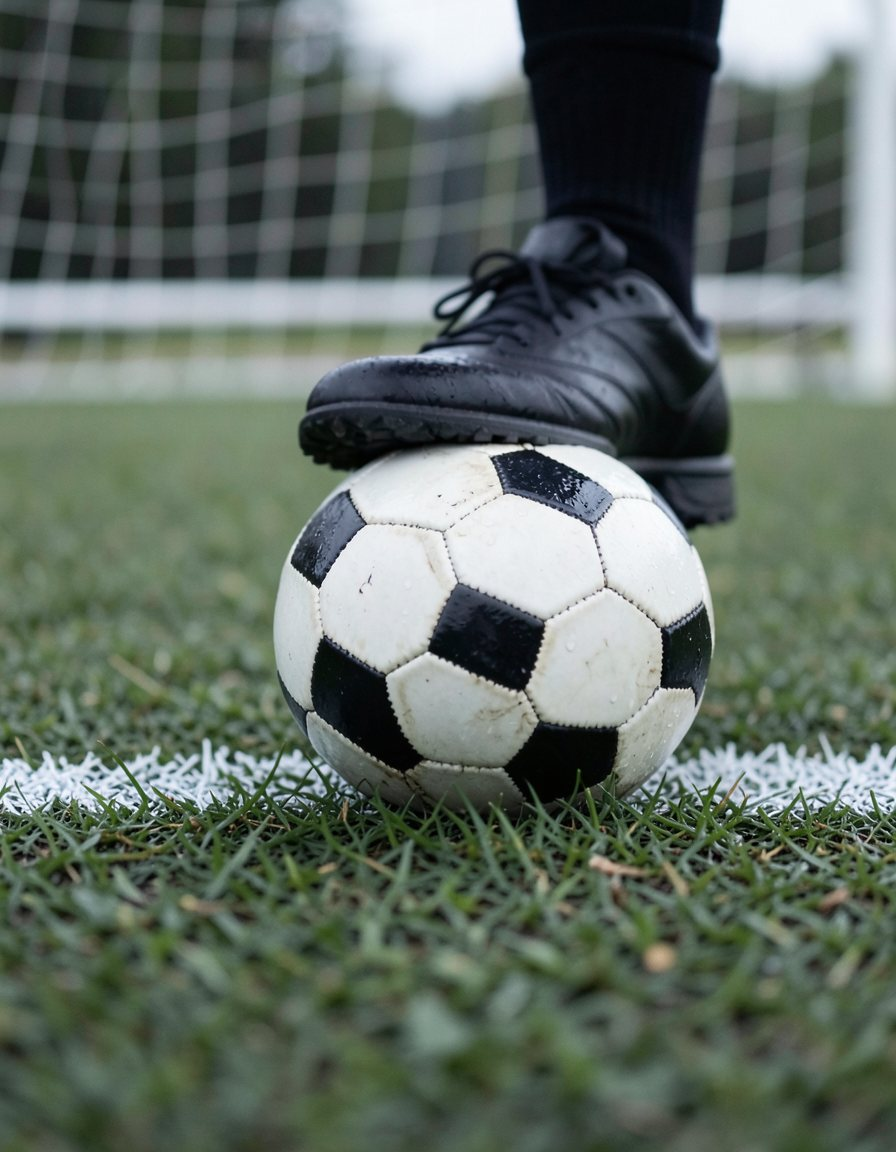
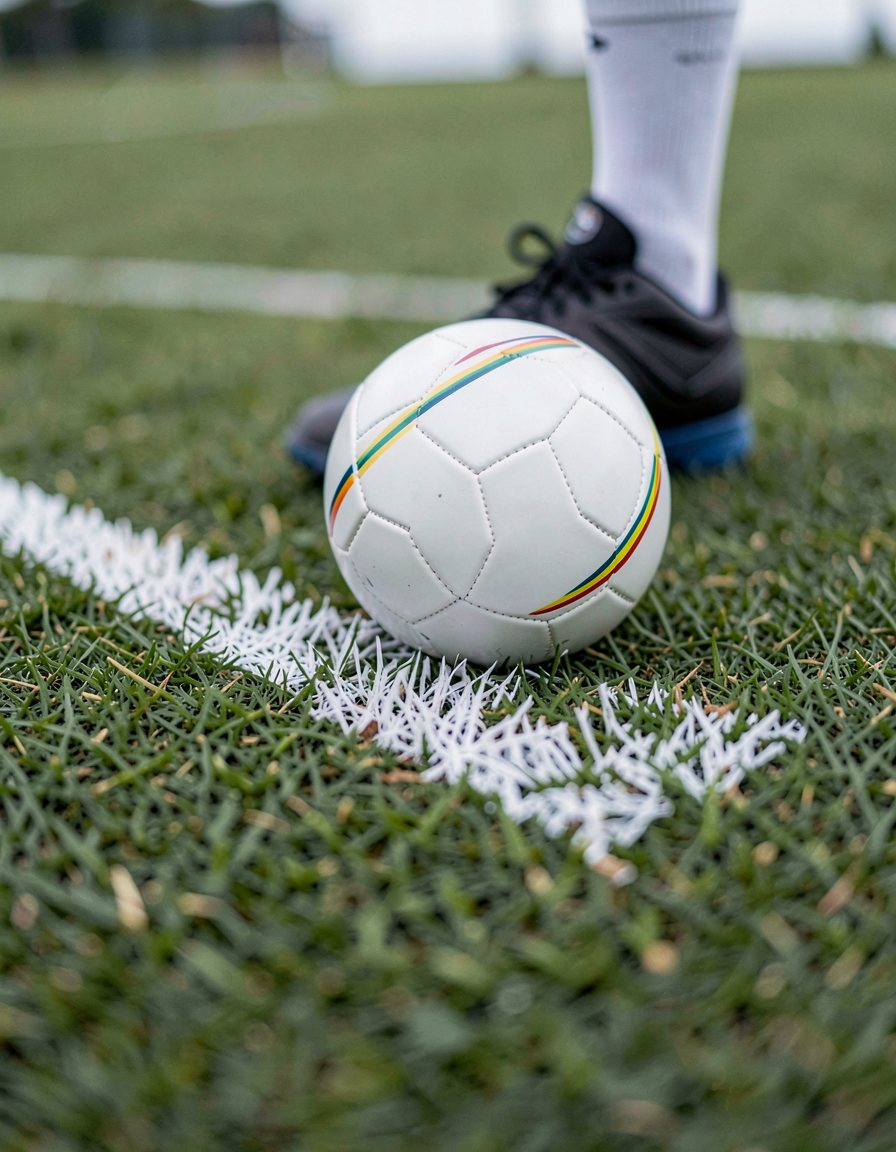
The pitch stopped flickering, and it was the caption that moved it
Three reports, all three real.

THE FLICKER, and I caused it. `.stage-pitch` was inset with
`bottom: var(--deck-floor)` to keep the goalkeeper out from under the caption.
That value is built on the LIVE caption height, the caption is one to three
lines, and so the host changed height every time the line count did -- measured
at 479 px and 534 px inside one scene. Two faults fell out of one line: the
whole diagram jumped half a centimetre mid-sentence, and every jump re-sized the
canvas, which CLEARS it, with the redraw deferred to the next animation frame.
A blank frame is what a flicker is.

The host is full-bleed again and the clearance moved into the FIT, measured off
the caption element and kept as a high-water mark so it settles once and then
never moves. Same lesson --caption-reach already taught this repo: measure the
element, never sum the parts. And resize() now draws synchronously, which rule 2
always allowed and this is the call that needed it.

Measured before: heights 479 and 534, canvas re-sized twice in 16 s.
Measured after: height 700 throughout, canvas re-sized 0 times, 0 blank samples
in 180.

THE PICTURES. The boot-and-ball and the gloves read as old and cheap, and they
were: a 1970s black-hexagon ball on scruffy artificial turf, and gloves lying on
ASPHALT with a painted line across it, which reads as a car park rather than a
pitch. Re-prompted -- modern bonded panels and not stitched hexagons, real mown
[…]

diff --git a/pitch/index.js b/pitch/index.js
@@ -190,7 +190,34 @@ export function createPitch(host, opts = {}) {
     canvas.height = Math.round(size.h * dpr);
     canvas.style.width = `${size.w}px`;
     canvas.style.height = `${size.h}px`;
-    schedule();
+    // SYNCHRONOUSLY, not scheduled. Assigning canvas.width clears the canvas,
+    // so deferring the redraw to the next animation frame leaves one blank
+    // frame on screen — which is exactly what a flicker is. Rule 2 says a draw
+    // must be callable synchronously; this is the call that needs it.
+    draw();
+  }
+
+  /* How much of the bottom the caption needs, as a HIGH-WATER MARK.
+     
+     Measured off the caption element rather than summed from --floor and
+     --caption-h, for the reason --caption-reach exists: a sum of parts is wrong
+     the moment a part moves. And kept as a maximum rather than read live,
+     because the caption is one to three lines and a pitch that re-fits itself
+     every time the line count changes is a pitch that jumps mid-sentence.
+     It settles on the first three-line caption and then never moves again. */
+  let floorMark = 0;
+  function floorReserve() {
+    const cap = document.querySelector('.captions');
+    if (cap) {
+      const c = cap.getBoundingClientRect();
+      const h = host.getBoundingClientRect();
+      if (c.height > 0 && c.top > h.top) {
+        floorMark = Math.max(floorMark, Math.round(h.bottom - c.top) + 8);
+      }
+    }
+    // Never eat more than half the stage: a caption that tall is a different
+    // problem and hiding the pitch behind it does not help anybody.
+    return Math.min(floorMark, size.h * 0.5);
   }
 
   /**
@@ -201,15 +228,16 @@ export function createPitch(host, opts = {}) {
    */
   function boxes() {
     const gap = panels.length > 1 ? 10 : 0;
-    const stack = size.h >= size.w;
+    const usable = Math.max(80, size.h - floorReserve());
+    const stack = usable >= size.w;
     const out = [];
     for (let i = 0; i < panels.length; i += 1) {
       if (stack) {
-        const h = (size.h - gap * (panels.length - 1)) / panels.length;
+        const h = (usable - gap * (panels.length - 1)) / panels.length;
         out.push({ x: 0, y: i * (h + gap), w: size.w, h });
       } else {
         const w = (size.w - gap * (panels.length - 1)) / panels.length;
-        out.push({ x: i * (w + gap), y: 0, w, h: size.h });
+        out.push({ x: i * (w + gap), y: 0, w, h: usable });
       }
     }
     return out;
@@ -638,6 +666,20 @@ export function createPitch(host, opts = {}) {
       // A ring in the ground colour lifts a dot off a zone wash it is standing
       // in. Without it, a marker inside a shaded pressing trap loses its edge
       // and the two read as one blob.
+      /* A halo on whatever the sentence is about.
+         
+         Dimming the other twenty-one was not enough on its own: it made the
+         subject relatively brighter, which is a weaker signal than making it
+         absolutely louder, and it was reported as the indications not being
+         clear enough. A ring outside the dot in the line colour reads at phone
+         size against turf whatever the faction colour is. */
+      if (panel.focus && lit(panel, side, p)) {
+        ctx.beginPath();
+        ctx.arc(x, y, r + 4.5, 0, Math.PI * 2);
+        ctx.strokeStyle = token('--pitch-line', 'rgba(255,255,255,.78)');
+        ctx.lineWidth = 2.4;
+        ctx.stroke();
+      }
       ctx.beginPath();
       ctx.arc(x, y, r, 0, Math.PI * 2);
       ctx.fillStyle = p.dim ? mixHex(colour, token('--pitch-turf', '#4a7c3c'), 0.55) : colour;
@@ -993,7 +1035,7 @@ export function createPitch(host, opts = {}) {
   }
 
   /** How far back an unlit thing goes. Not zero: it is still the picture. */
-  const FOCUS_DIM = 0.3;
+  const FOCUS_DIM = 0.22;
 
   /** Is this player the one being talked about? */
   function lit(panel, side, player) {

diff --git a/css/pitch.css b/css/pitch.css
@@ -68,28 +68,26 @@
   --pitch-line-soft: rgba(255, 255, 255, .24);
 }
 
-/* The ground — but NOT full-bleed like .stage-map, and that is the one
-   interesting rule in this file.
+/* The ground, full-bleed like .stage-map — and it must NOT be inset to clear
+   the caption, which is what it was.
 
-   A map has a camera, so it fills the stage and `framePadding()` composes the
-   subject into the part you can actually see. A pitch has no camera: it is
-   fitted once into whatever box it is given. Given the whole stage, it fits
-   105 metres into 700 pixels and puts the goalkeeper — and the whole bottom
-   penalty area — underneath the caption. Measured on chapter one at 390x700:
-   the number 1 was invisible in every scene, in a chapter whose subject is
-   eleven players.
+   `bottom: var(--deck-floor)` looked right and was measurably wrong. That value
+   is built on the live caption height, the caption is one to three lines, and
+   so the host changed height by 55 px every time the line count changed —
+   measured at 479 px and 534 px inside one scene. Two faults came out of it:
+   the whole diagram jumped half a centimetre mid-sentence, and every jump
+   resized the canvas, which CLEARS it, with the redraw deferred to the next
+   animation frame. Reported as "the pitch graphics are flickering".
 
-   So the host stops above the caption, and the ResizeObserver in
-   pitch/index.js re-fits when it moves. `--deck-floor` is the same clearance
-   .stage-chart uses, and it is built on the MEASURED --caption-reach rather
-   than on --floor + --caption-h, because a sum of parts is wrong the moment a
-   part moves — this repo has paid for that twice already. */
+   The clearance still has to happen — the goalkeeper was under the caption
+   before it — but it belongs to the FIT and not to the element. pitch/index.js
+   measures the caption's own top edge and keeps the high-water mark, so the
+   pitch settles once and then never moves. Measuring off the element rather
+   than summing --floor and --caption-h is the same lesson --caption-reach
+   already taught this repo. */
 .stage-pitch {
   position: absolute;
-  left: 0;
-  right: 0;
-  top: 0;
-  bottom: var(--deck-floor);
+  inset: 0;
   /* The base rule carries the DEPARTURE and .is-on the ARRIVAL, the same
      two-duration shape every other surface on this stage uses. */
   opacity: 0;

diff --git a/sw.js b/sw.js
@@ -15,7 +15,7 @@
 /* BEGIN GENERATED — tools/build-sw.py */
 // Written by tools/build-sw.py from the files index.html actually reaches,
 // plus each pack's runtime data. Do not edit by hand — run the tool.
-const VERSION = 'vdd6192ed0c';
+const VERSION = 'vd802f68b1c';
 const APP_CACHE = `fortell-app-${VERSION}`;
 const TILE_CACHE = `fortell-tiles-${VERSION}`;
 const TILE_LIMIT = 400;
